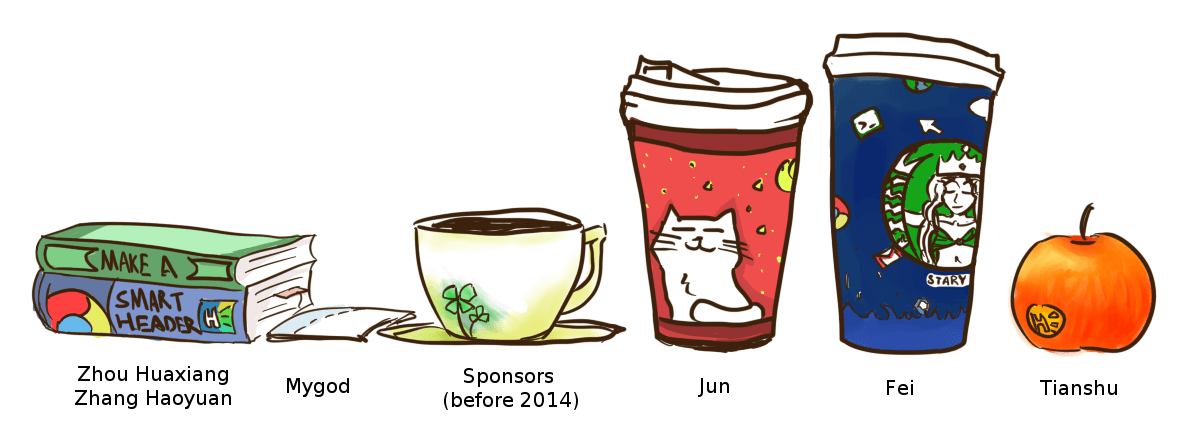
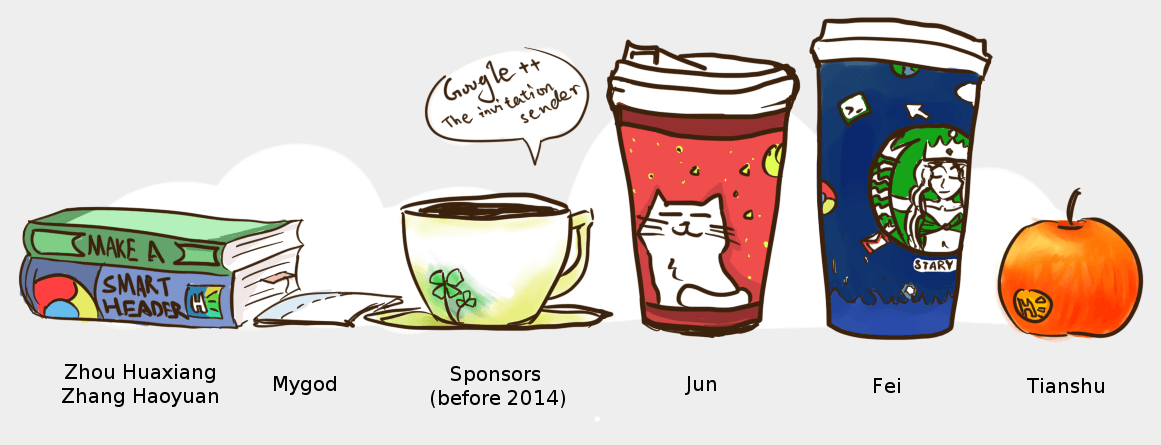
SPONSORS IMAGE!

Changed region(s): [[0.0, 0.0304, 0.9922, 0.972], [0.5891, 0.8505, 0.6202, 0.9416]]

diff --git a/src/donate.html b/src/donate.html
@@ -22,6 +22,10 @@
   </nav>
   
   <section role="article" class="article">
+    <p>
+      <a href="http://blog.laobubu.net/donate/#heroes"><img src="image/sponsors.png" alt="Sponsors"></a>
+    </p>
+  
     <h1 data-translate>Buy me a coffee</h1>
     <p>Thanks for stopping by!</p>
     <p>As you may or may not know, lots of my works are provided for free. If you like and are so inclined, you can help me keep going by buying a "coffee" for me.</p>
@@ -47,7 +51,7 @@
         <a href="https://qr.alipay.com/apvqu49h7662kez218"><img src="image/alipay.png" alt="Alipay QR Code"></a>
       </div>
     </div>
-  
+    
     <p id="i18n_selector">
       Language: 
       <a href="./donate.html" hreflang="en">English</a>

diff --git a/src/donate.zh-cn.html b/src/donate.zh-cn.html
@@ -22,6 +22,9 @@
   </nav>
   
   <section role="article" class="article">
+    <p>
+      <a href="http://blog.laobubu.net/donate/#heroes"><img src="image/sponsors.png" alt="Sponsors"></a>
+    </p>
     <h1 data-translate>帮我买杯咖啡</h1>
     <p>很高兴我的作品能给你带来帮助，也感谢你点击了那个捐赠的链接。</p>
     <p>正如您所见，我的作品基本都是免费提供的。如果您觉得我的作品很有帮助，不妨帮我买杯“咖啡”，小额地支持一下我。</p>
